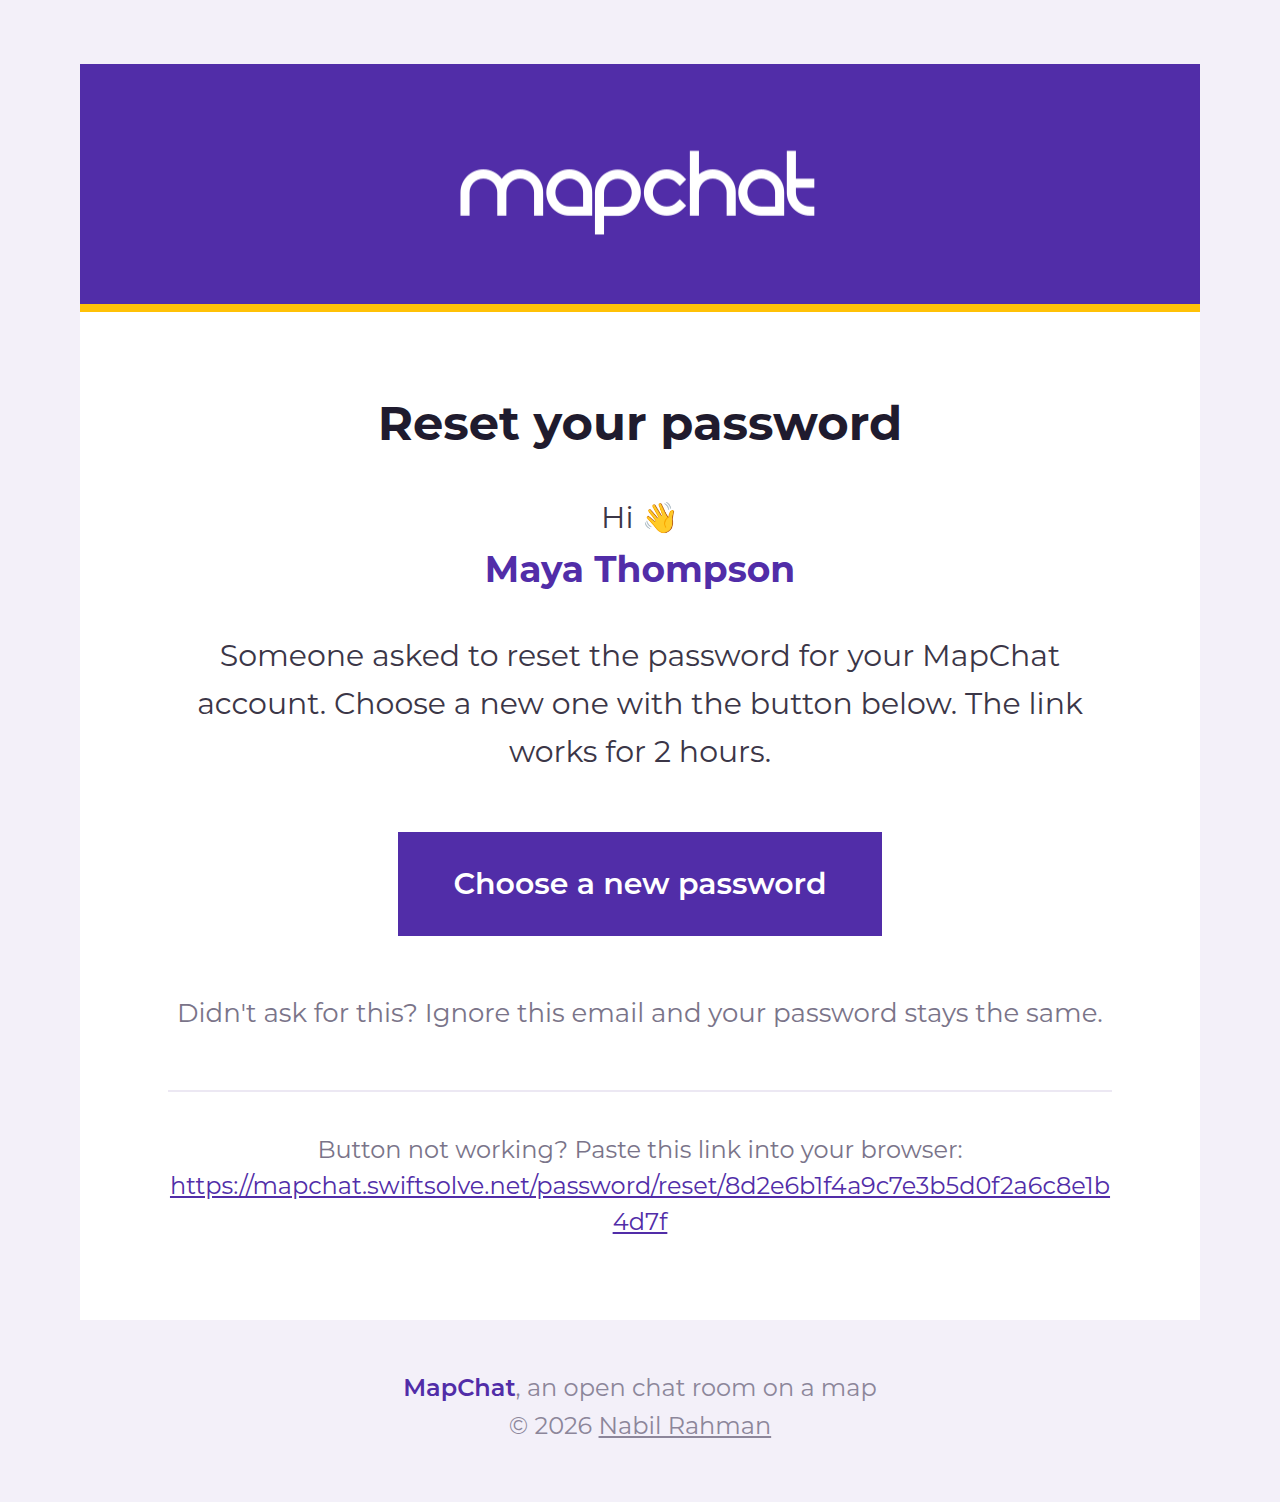
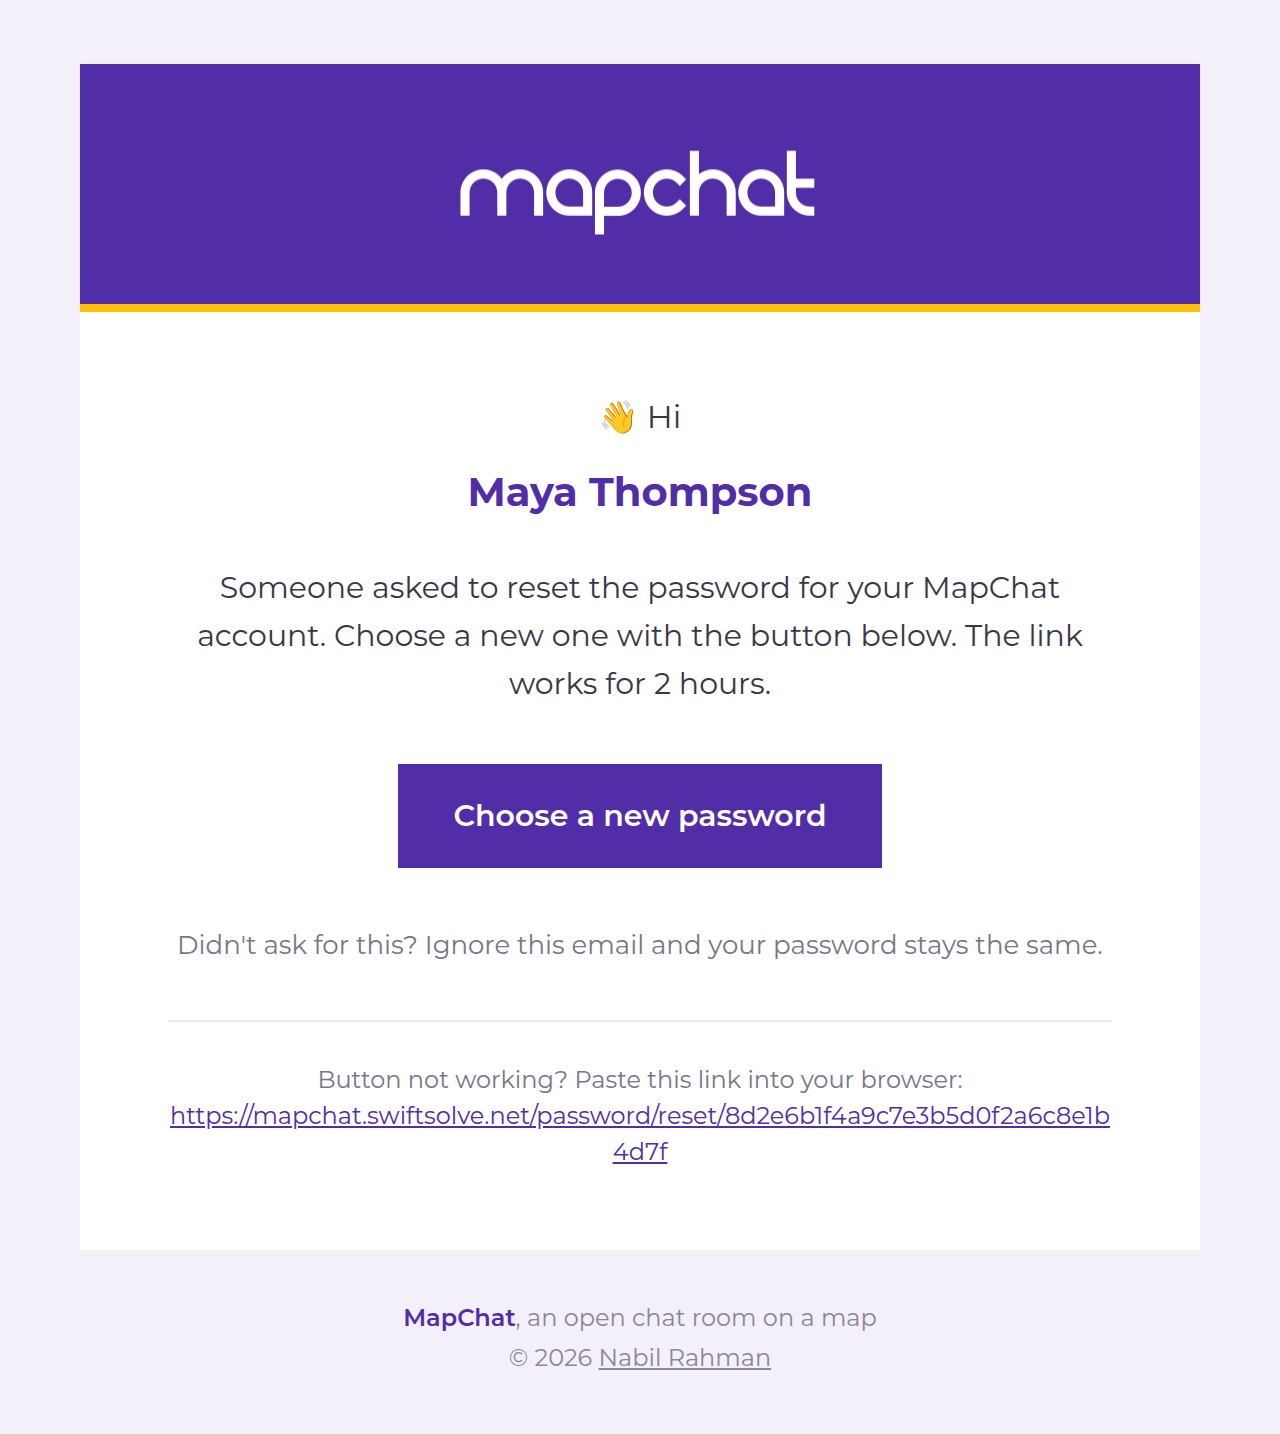
Open the emails with a wave and the name, no heading

diff --git a/App/Views/base_email.html b/App/Views/base_email.html
@@ -13,7 +13,6 @@
         /* Phones: less padding so the text gets the width */
         @media screen and (max-width: 600px) {
             .card-body { padding: 28px 22px !important; }
-            .heading { font-size: 22px !important; }
         }
     </style>
 </head>
@@ -38,8 +37,6 @@
 
                 <tr>
                     <td class="card-body" align="center" style="text-align: center; background-color: #ffffff; padding: 40px 44px; color: #3b3647; font-size: 15px; line-height: 1.6;">
-                        <h1 class="heading" style="margin: 0 0 20px; color: #1f1b2e; font-size: 24px; font-weight: 700; line-height: 1.3;">{% block heading %}{% endblock %}</h1>
-
                         {% block body %}{% endblock %}
 
                         {# Some mail apps strip links from buttons; the plain link always works #}

diff --git a/App/Views/Password/reset_email.html b/App/Views/Password/reset_email.html
@@ -4,10 +4,9 @@
 
 {% block preheader %}This link works for the next 2 hours.{% endblock %}
 
-{% block heading %}Reset your password{% endblock %}
-
 {% block body %}
-<p style="margin: 0 0 16px;">Hi 👋<br><strong style="color: #512da8; font-size: 18px;">{{ name }}</strong></p>
+<p style="margin: 0 0 8px; font-size: 16px;">👋 Hi</p>
+<p style="margin: 0 0 20px;"><strong style="color: #512da8; font-size: 20px;">{{ name }}</strong></p>
 <p style="margin: 0;">Someone asked to reset the password for your MapChat account. Choose a new one with the button below. The link works for 2 hours.</p>
 
 {% include 'email_button.html' with {label: 'Choose a new password'} %}

diff --git a/App/Views/Signup/activation_email.html b/App/Views/Signup/activation_email.html
@@ -4,10 +4,9 @@
 
 {% block preheader %}One click and you're in the room.{% endblock %}
 
-{% block heading %}Welcome to MapChat{% endblock %}
-
 {% block body %}
-<p style="margin: 0 0 16px;">Hi 👋<br><strong style="color: #512da8; font-size: 18px;">{{ name }}</strong></p>
+<p style="margin: 0 0 8px; font-size: 16px;">👋 Hi</p>
+<p style="margin: 0 0 20px;"><strong style="color: #512da8; font-size: 20px;">{{ name }}</strong></p>
 <p style="margin: 0;">Thanks for signing up. Activate your account to start chatting and to put your city on the map.</p>
 
 {% include 'email_button.html' with {label: 'Activate account'} %}
